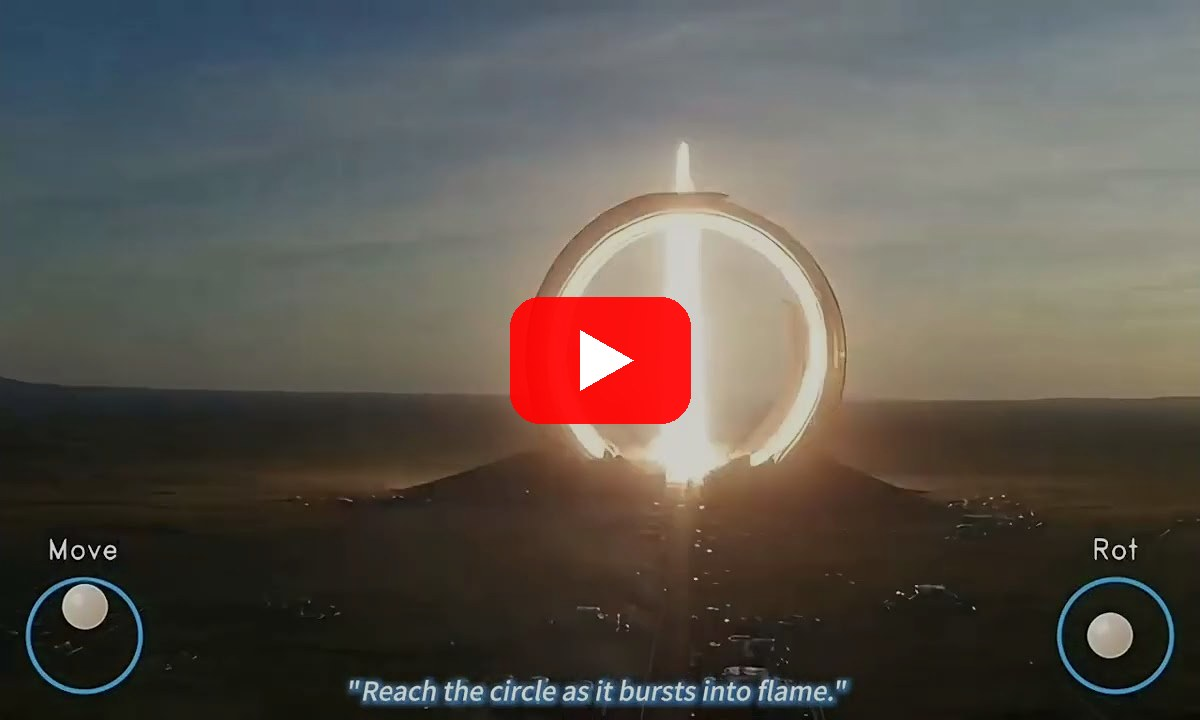
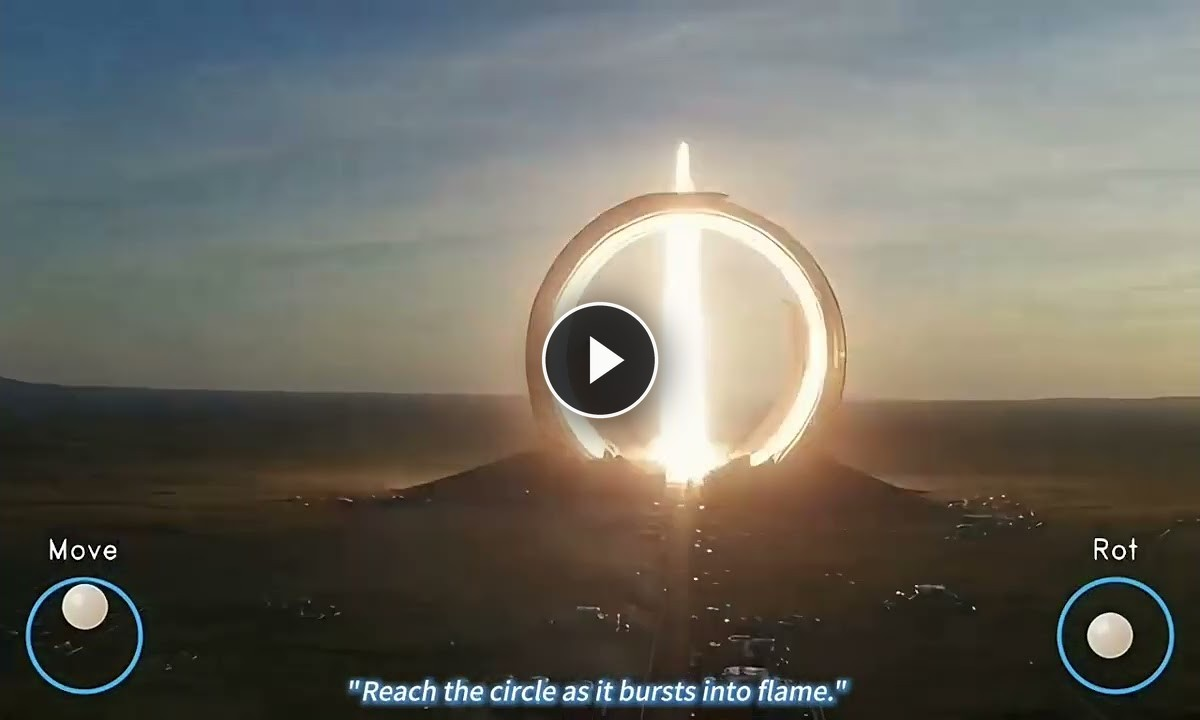
Lead the demos with the overview video

diff --git a/README.md b/README.md
@@ -21,13 +21,6 @@
   and keeps going — 1.5 s of video every 2.11 s on a single H200.</b>
 </p>
 
-<p align="center">
-  <a href="https://www.youtube.com/watch?v=2CGx1WCC3zA">
-    <img src="assets/promo.jpg" width="640" alt="Watch the EVOKE overview on YouTube">
-  </a>
-  <br><sub><a href="https://www.youtube.com/watch?v=2CGx1WCC3zA">▶ Watch the 1-minute overview</a></sub>
-</p>
-
 ## ✨ Highlights
 
 - 🏆 **State of the art on WBench** — as a *three-step* world model, while staying competitive in
@@ -44,6 +37,14 @@
   30 s self-forced supervision affordable.
 
 ## 🎬 Demos
+
+<p align="center">
+  <a href="https://www.youtube.com/watch?v=2CGx1WCC3zA">
+    <img src="assets/promo.jpg" width="100%" alt="Watch the EVOKE overview on YouTube">
+  </a>
+  <br>
+  <sub><a href="https://www.youtube.com/watch?v=2CGx1WCC3zA"><b>▶&nbsp; Watch the 1-minute overview</b></a></sub>
+</p>
 
 Every clip was produced by the launchers in this repo, on the data bundled in `examples/` — no external
 dataset, no cherry-picking across seeds. The `Move` / `Rot` joystick is the camera-control HUD burned
